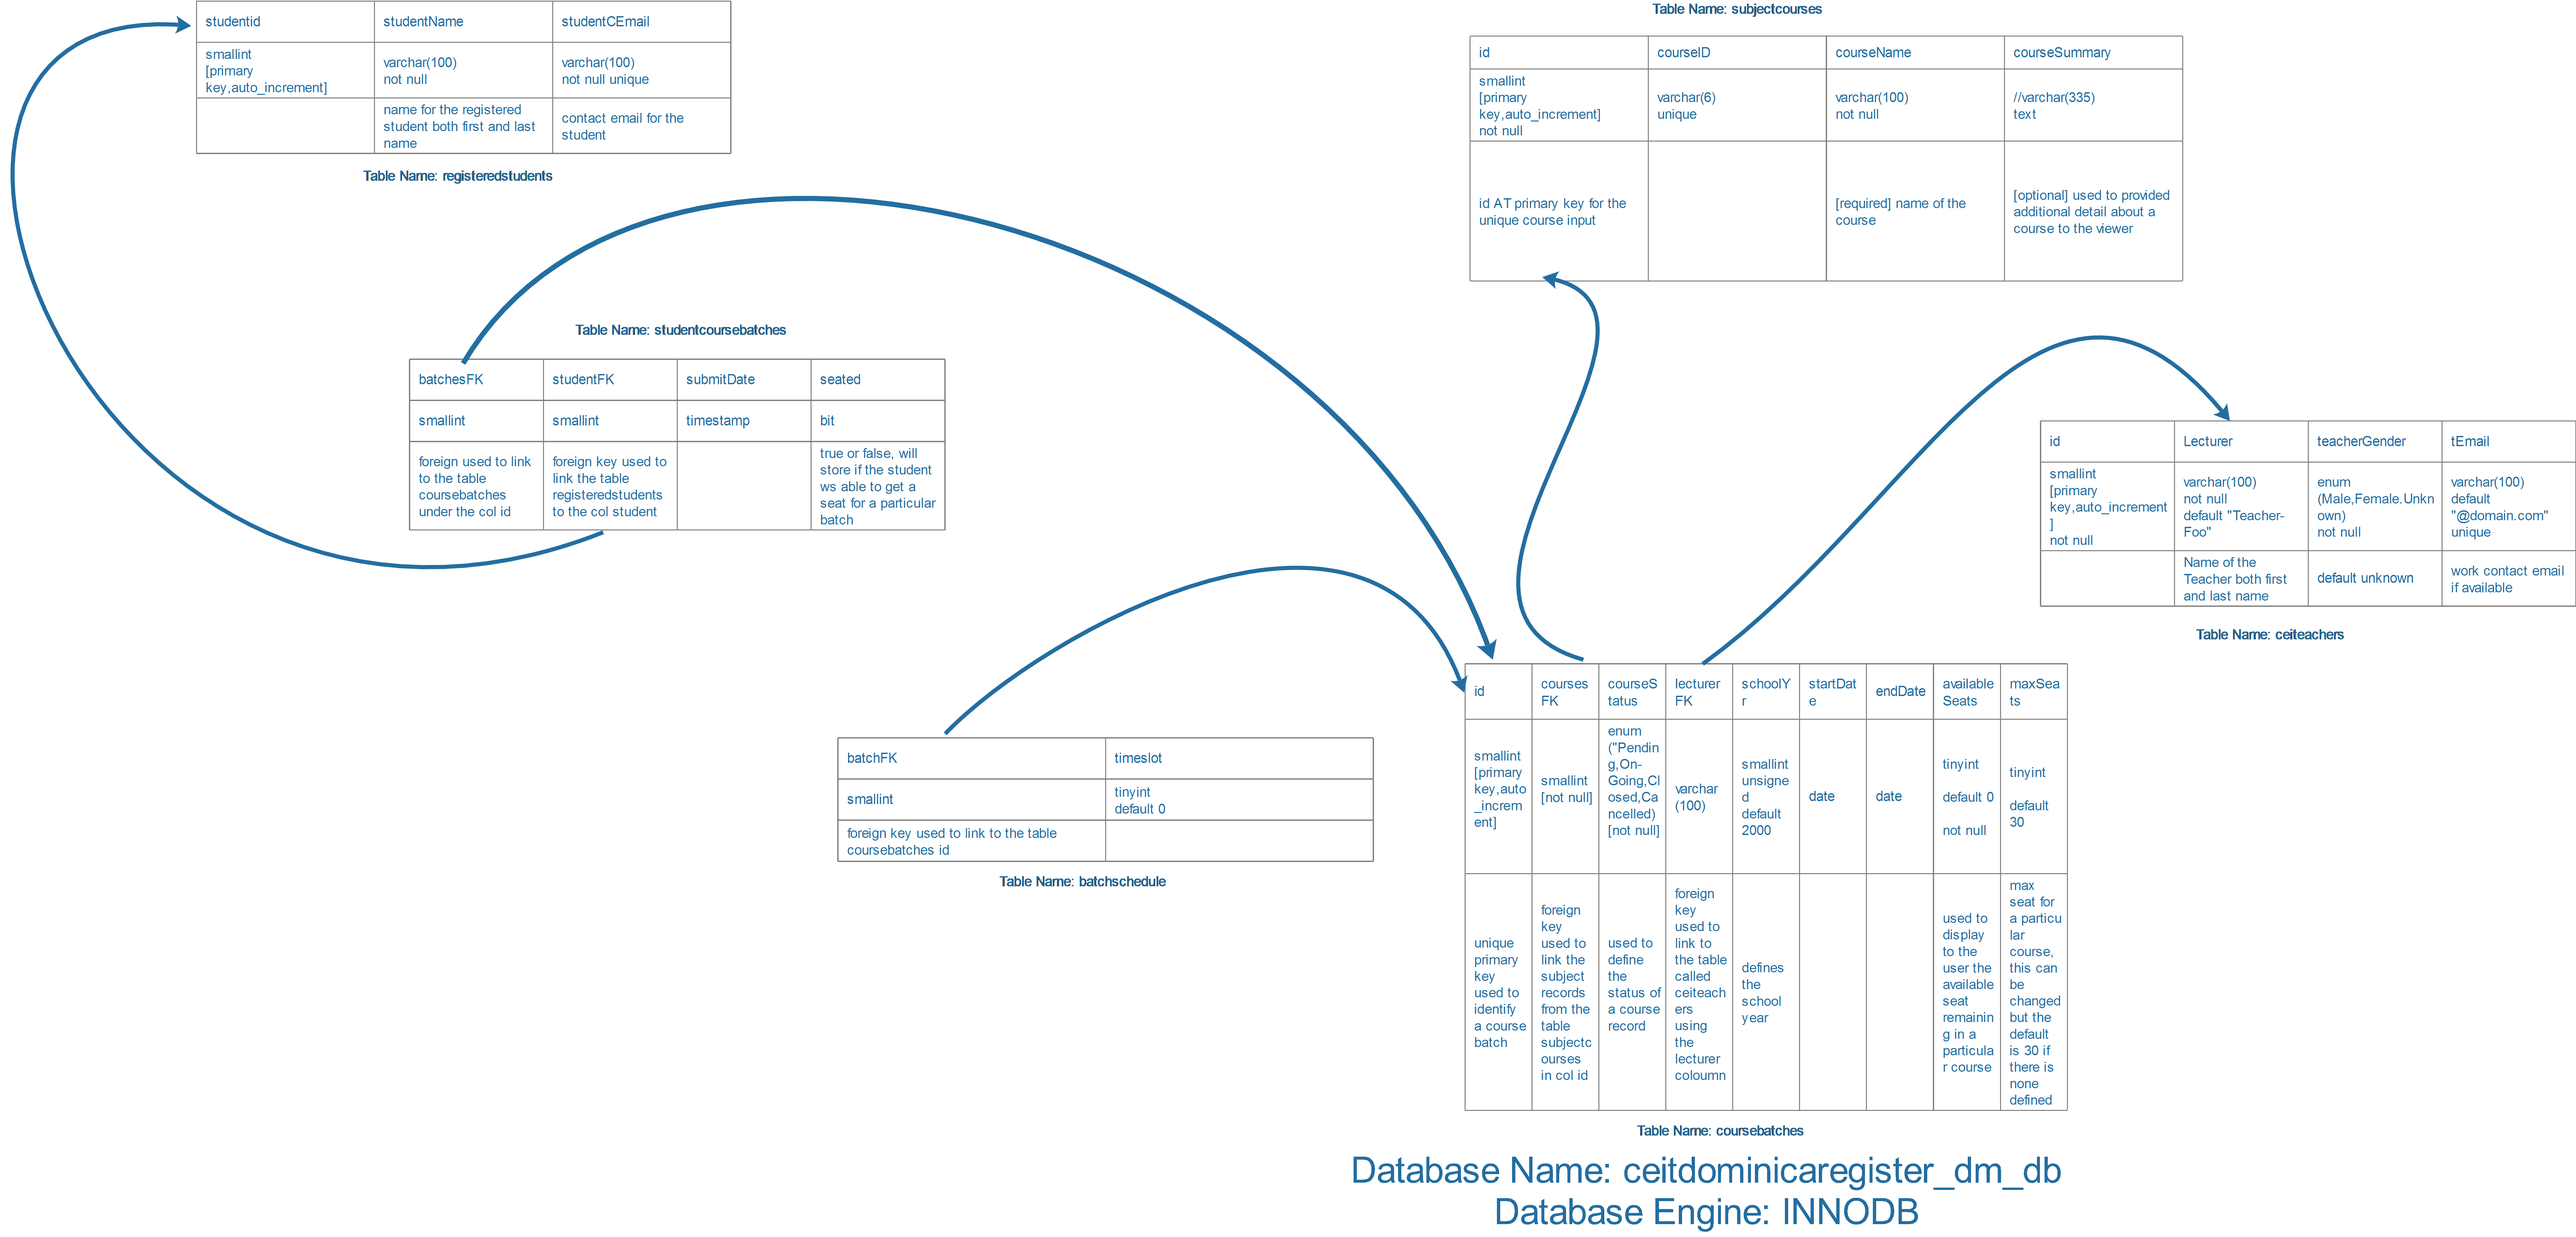
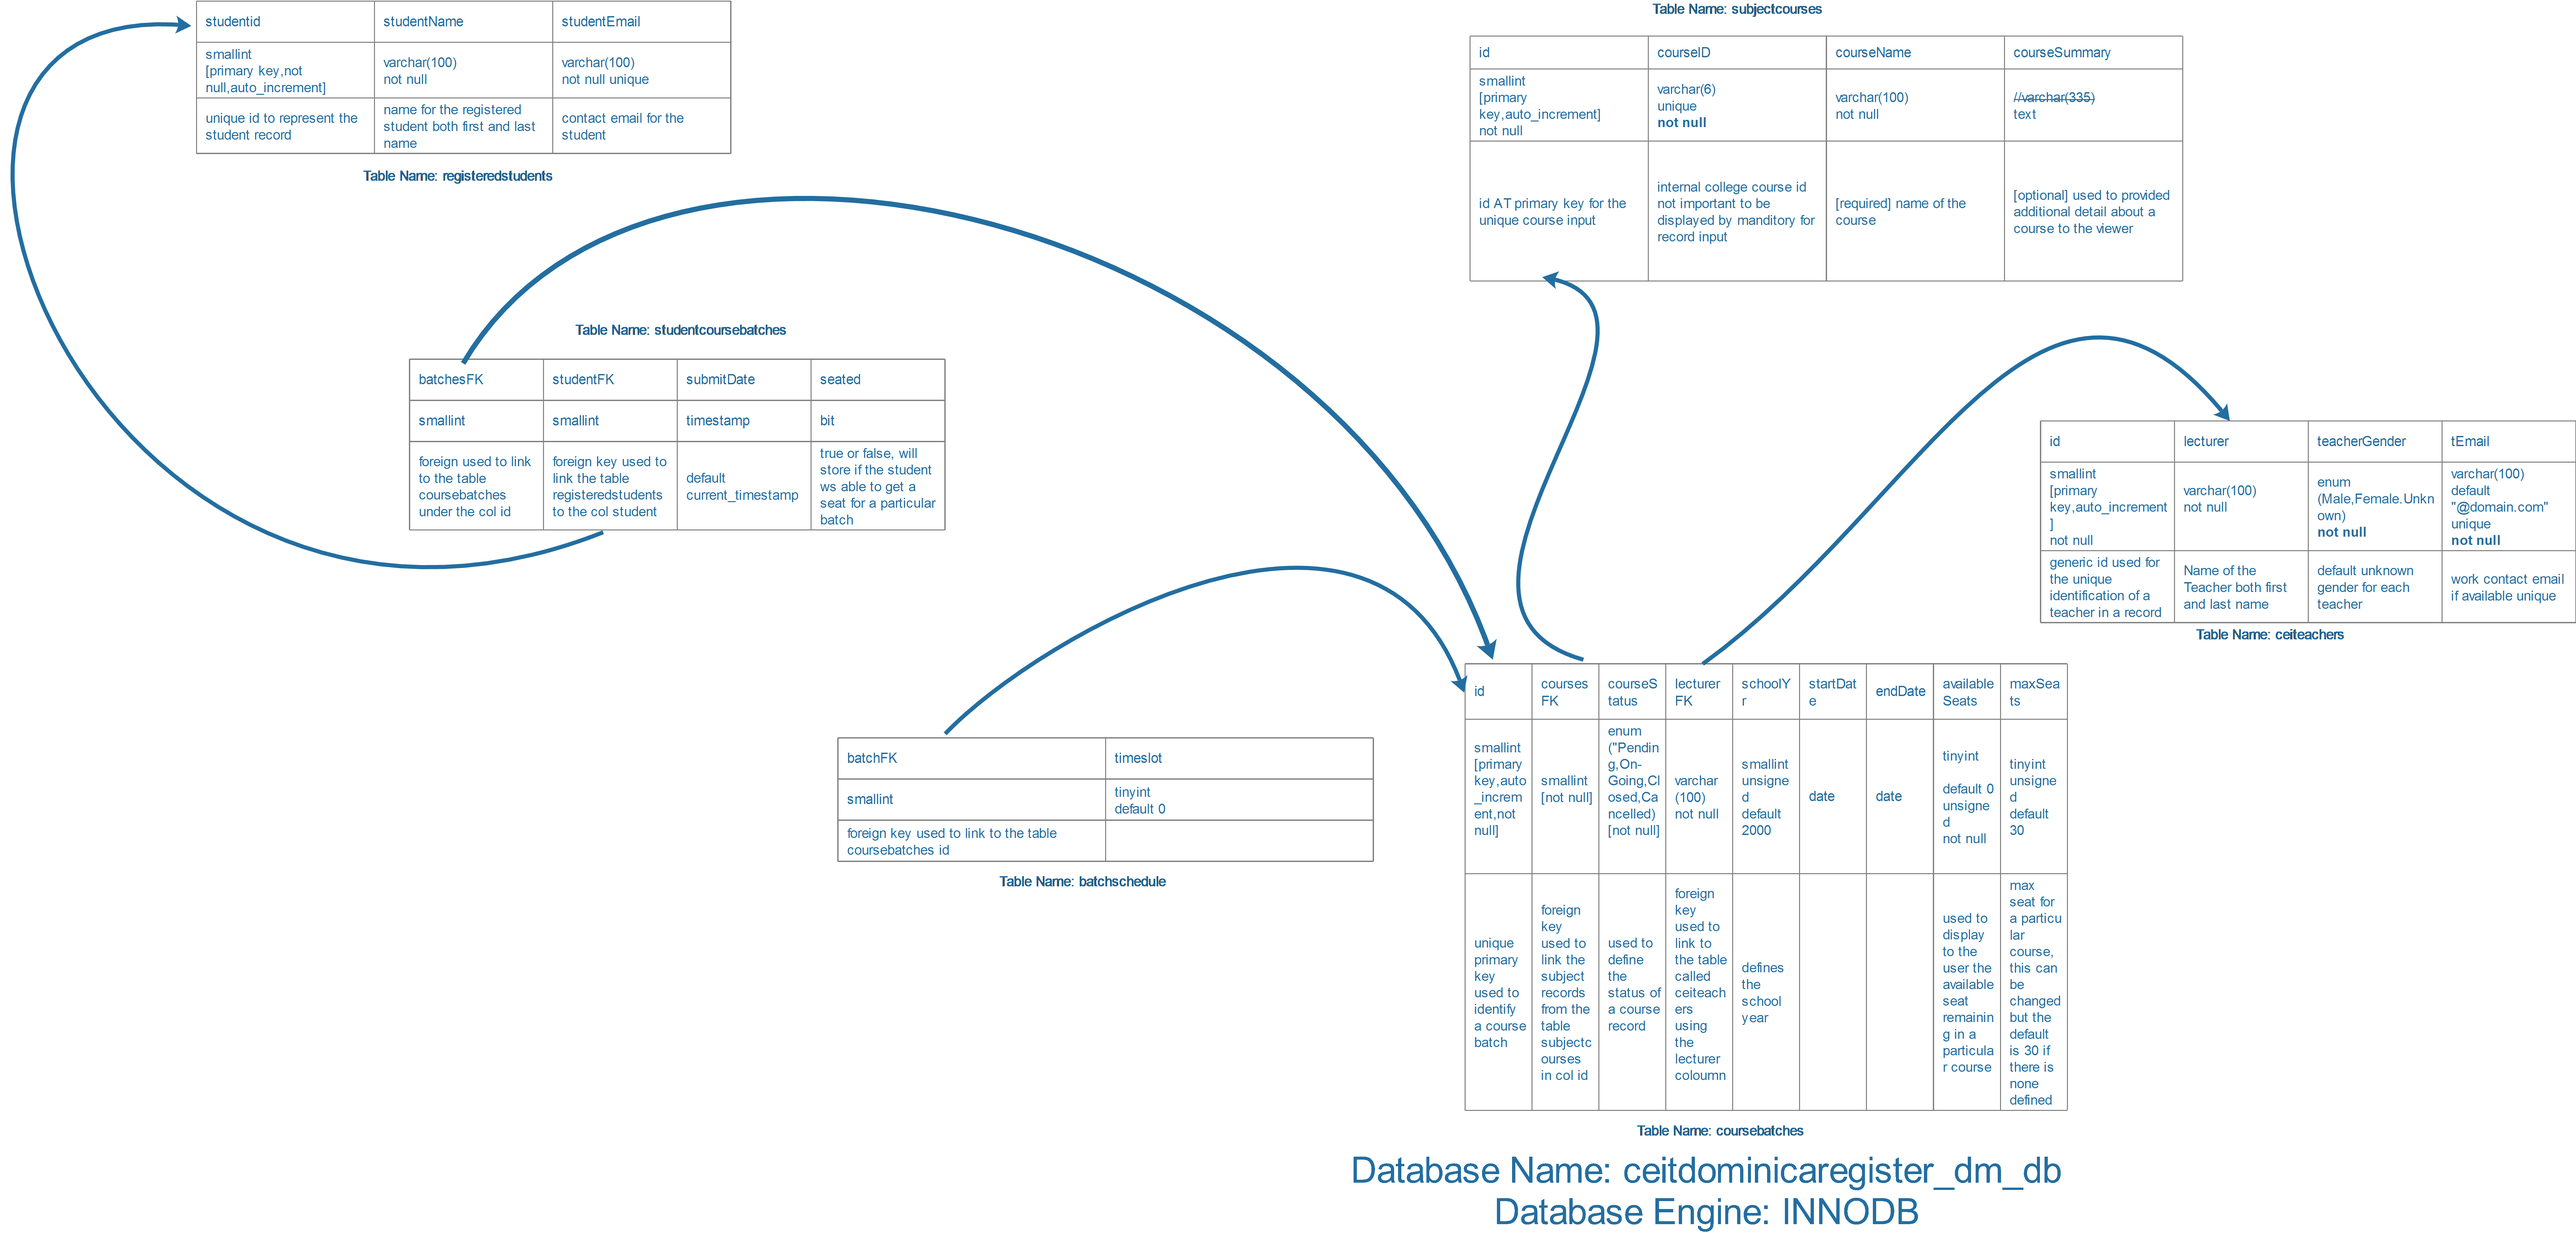
Deleted old files,updated doc (mjr),updated sql image (minor)

diff --git a/resources/php/databaseManagementAndHandling.php b/resources/php/databaseManagementAndHandling.php
@@ -1,5 +1,12 @@
 <?php
-
+/*
+ * FILE NAME:
+ * 
+ * DESCRIPTION: FILE USED TO INSERT THE REGISTERED STUDENTS 
+ * INTO THE DATABASE
+ * 
+ * DATE MODIFIED:
+ */
 include 'coreSystemSettings.php';
 include 'messages.php';
 
@@ -18,12 +25,13 @@ include 'messages.php';
 $registeredName = $_POST['register-Name'];
 $registeredEmail = $_POST['register-Email'];
 
+//evaluateSubmittedInformation($registeredName,$registeredEmail);
 //END OF CB #111
 
-echo "data".getDatabaseRef();
-$connectToDatabase = mysqli_connect(getServerAddress(),'root','');
 
-
+//PROPER EMAIL $connectToDatabase = mysqli_connect(getServerAddress(),getDailyDriverUN(),getDailyDriverUP() );
+$connectToDatabase =  mysqli_connect(getServerAddress(),"root","" );
+//echo getDailyDriverUN();
 
 //checks to see if connection is possible
 /*
@@ -44,7 +52,43 @@ echo findServerYearDate();
 
 
 mysqli_select_db($connectToDatabase, getDatabaseRef());
-mysqli_query($connectToDatabase, insertNewCourse("999", "Mathematics", "null"));
+mysqli_query($connectToDatabase, insertNewRegisteredStudent(getSubmittedName(), getSubmittedEmail()) );
 mysqli_close($connectToDatabase);
 //function used to insert records into the database
 //of registered individuals
+
+
+/*
+ * function used to compare if the submitted result is empty
+ * and calls the functions to submit the accepted values
+ * 
+ * code block #1
+ */
+function evaluateSubmittedInformation($name,$email)
+{
+    if(strlen($name)<=0){
+        
+        die("Invalid Input Name from User");
+    }
+    
+    
+    if(strlen($email)<=0){
+      
+        die("Invalid Input Email from User");
+    }
+    
+}
+
+
+function getSubmittedName()
+{
+    global $registeredName;
+    return $registeredName;
+}
+
+function getSubmittedEmail()
+{
+    global $registeredEmail;
+    return $registeredEmail;
+}
+//end of code block #1

diff --git a/resources/php/coreSystemSettings.php b/resources/php/coreSystemSettings.php
@@ -93,10 +93,28 @@ function getDailyDriverUP()
 
 //function used to call the server to add a new record
 //into the subjects table
+//table name: subjectcourses
 function insertNewCourse($CCode,$subjectName,$summary)
 {
     $scriptTemplate = "CALL insertNewCourse('".$CCode."','".$subjectName."','".$summary."')";
     return $scriptTemplate;
+}
+
+
+//functin used to call the server to add a new registered student's information
+//table name: registeredstudents
+function insertNewRegisteredStudent($studentName,$studentEmail)
+{
+    $insertScriptTemplate ="CALL insertNewRegisteredStudent('".$studentName."','".$studentEmail."')";
+            return $insertScriptTemplate;
+}
+
+
+//function used to call the server to add a new teacher and their information
+function insertNewTeacher($teacherName,$gender,$teacherEmail)
+{
+    $insertTeacherScriptTemplate = "CALL insertNewTeacher('".$teacherName."','".$gender."','".$teacherEmail."')";
+    return $insertTeacherScriptTemplate;
 }
 //END OF CODE BLOCK 100
 

diff --git a/resources/php/insertTeacherRecor.php b/resources/php/insertTeacherRecor.php
@@ -1,0 +1,8 @@
+<?php
+
+/* 
+ * To change this license header, choose License Headers in Project Properties.
+ * To change this template file, choose Tools | Templates
+ * and open the template in the editor.
+ */
+
